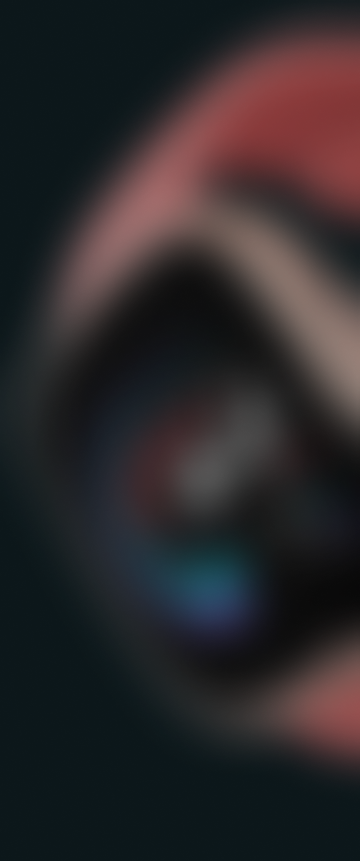
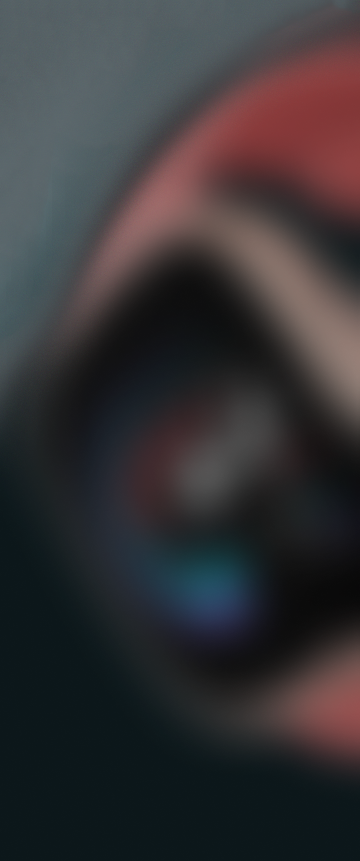
test GitHub Pages

Changed region(s): [[0.0, 0.0, 1.0, 0.4832]]

diff --git a/css/style.css b/css/style.css
@@ -1,14 +1,89 @@
-@import url('https://fonts.googleapis.com/css2?family=Nunito+Sans:ital,opsz,wght@0,6..12,200..1000;1,6..12,200..1000&display=swap');
+@import url("https://fonts.googleapis.com/css2?family=Nunito+Sans:ital,opsz,wght@0,6..12,200..1000;1,6..12,200..1000&display=swap");
 
 body {
- font-family: "Nunito Sans";
- color: #F4F4F4;
+  font-family: "Nunito Sans";
+  color: #f4f4f4;
+  background: url(/img/bcg/bcg360.png);
+  background-size: cover;
+  background-repeat: no-repeat;
+  border-color:4px #aa4d4d ;
+}
+
+@media (min-width: 576px) and (max-width: 1440px) {
+  body {
+    font-family: "Nunito Sans";
+    color: #f4f4f4;
+    background: url(/img/bcg/bcg1440.png);
+    background-size: cover;
+    background-repeat: no-repeat;
+  }
+}
+
+@media (min-width: 1440px) and (max-width: 1920px) {
+  body {
+    font-family: "Nunito Sans";
+    color: #f4f4f4;
+    background: url(/img/bcg/bcg1920.png);
+    background-size: cover;
+    background-repeat: no-repeat;
+  }
 }
 
 .container {
-    margin: 20px;
+  margin: 20px;
 }
 
-.header__inner{
-    width: 320px;
+.header__inner {
+  display: flex;
+  justify-content:space-between;
 }
+
+.logo {
+}
+.logo__link {
+}
+.logo__link__logo {
+  height: 36px;
+}
+.logo__link__brandname {
+  width: 86px;
+}
+.menu {
+    display: flex;
+    align-items: flex-end;
+    justify-content: space-between;
+
+}
+.menu__icon {
+}
+.menu__icon__img {
+  height: 16px;
+}
+
+/* анімація 
+ */
+
+/* gift {
+    position: relative;
+  }
+  .box, .bottom, .lid {
+    position: absolute;
+    top: 100;
+    left: 0;
+  }
+
+  
+.lid {
+   Початкові значення для анімації 
+  transform-origin: top center;
+  transform: scaleY(1);
+  opacity: 1;
+  Час та тип анімації 
+  transition: transform 1s ease, opacity 1s ease;
+}
+
+.open {
+   Кінцеві значення для анімації 
+  transform: scaleY(0);
+  opacity: 0;
+} */

diff --git a/index.html b/index.html
@@ -27,20 +27,36 @@
       <div class="container">
         <div class="header__inner">
           <div class="logo">
-            <a href="#"> <img src="img/log/logo.png" alt="logo"></a>
-            <a href="#"> <img src="img/log/brandname.png" alt="fitbit"></a>
+            <a class="logo__link" href="#"> <img class="logo__link__logo" src="img/log/logo.png" alt="logo"></a>
+            <a class="logo__link" href="#"> <img class="logo__link__brandname" src="img/log/brandname.png" alt="fitbit"></a>
+          </div>
+          <div class="menu">
+            <a class="menu__icon" href="#"> <img class="menu__icon__img" src="img/icon/icon_basket.svg" alt="basket"></a>
+            <a class="menu__icon" href="#"> <img class="menu__icon__img" src="img/icon/icon_location.svg" alt="location"></a>
+            <a class="menu__icon" href="#"> <img class="menu__icon__img" src="img/icon/icon_user.svg" alt="user"></a>
           </div>
         </div>
       </div>
 
     </header>
 
+<!-- анімація -->
+
+<section>
+  <!-- <div class="gift box-text">
+    <img class="box" src="/img/box/box-4.png" alt="Коробка">
+    <img class="bottom" src="img/box/box-3.png" alt="Дно коробки">
+    <img class="lid" src="img/box/box-2.png" alt="Кришка">
+ 
+  </div> -->
+  <!-- <button onclick="openGift()">Відкрити подарунок</button> -->
+</section>
 
 
 
-
-   
+    <script src="/js/main.js"></script> 
   </body>
+
 </html>
 
     <!-- <p>Congratulations!</p>

diff --git a/js/main.js b/js/main.js
@@ -1,0 +1,12 @@
+function openGift() {
+    var lid = document.querySelector('.lid');
+    lid.classList.add('open'); // Додаємо клас, що спрацює анімацію
+}
+
+// Отримуємо посилання на елемент з текстом на коробці
+var boxText = document.querySelector('.box-text');
+
+// Додаємо обробник події для тексту на коробці
+boxText.addEventListener('click', function() {
+    openGift(); // Викликаємо функцію відкриття подарунка при кліку на текст
+});
